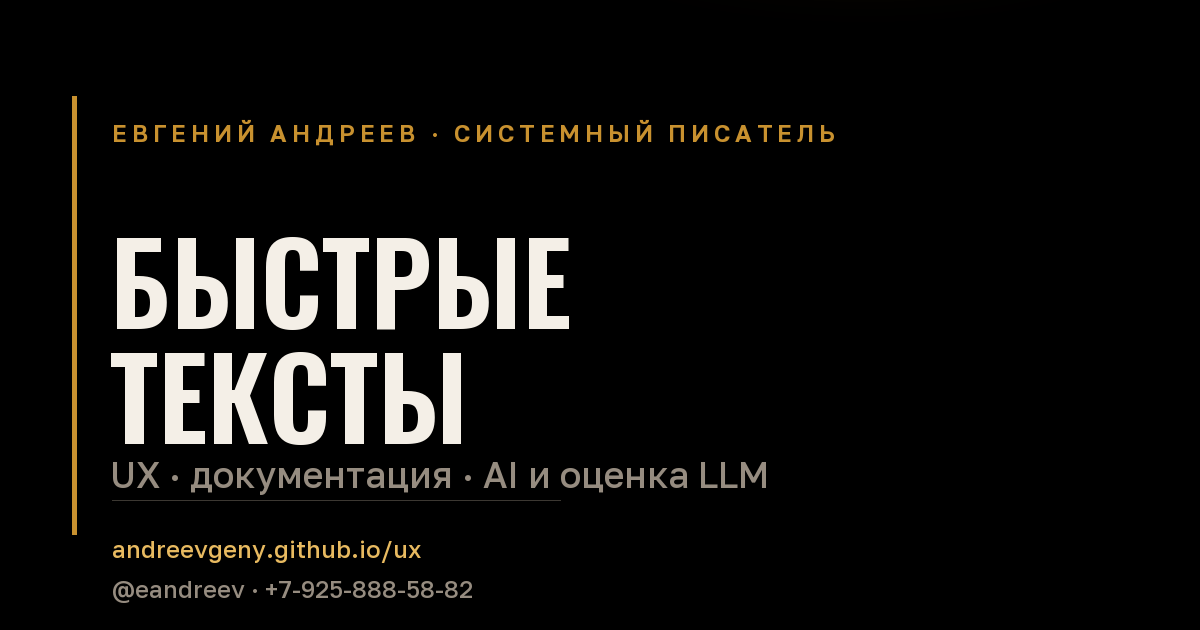
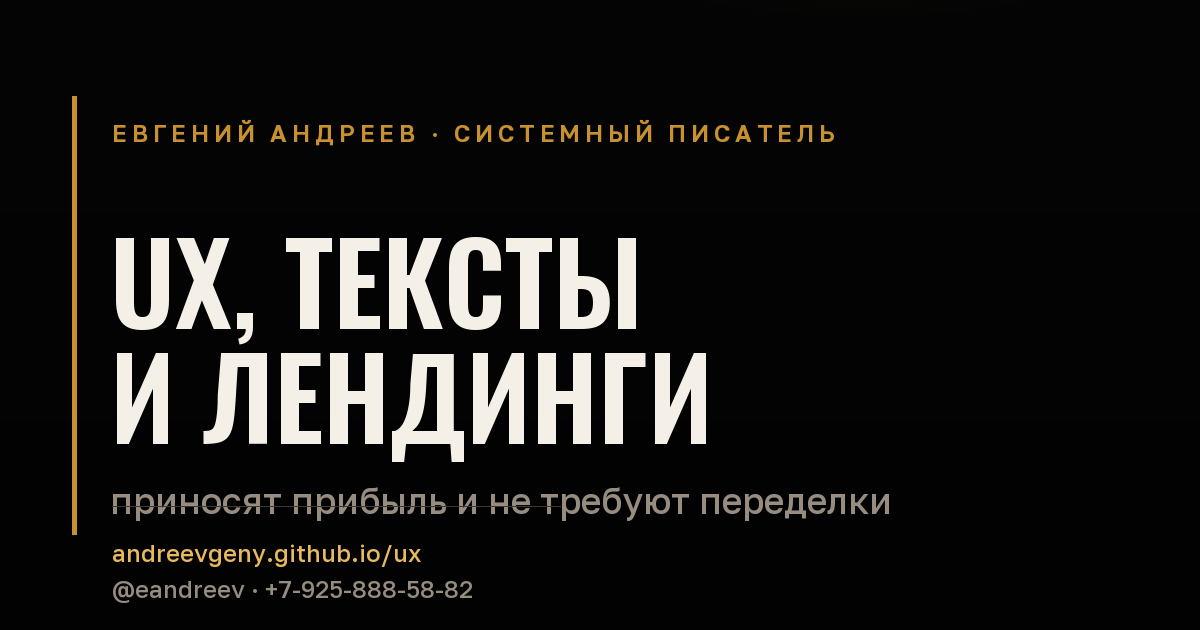
Позиционирование: h1 про UX/тексты/лендинги и прибыль; AI-ячейка названа тремя услугами; обложка обновлена

Changed region(s): [[0.0925, 0.3619, 0.74, 0.8143], [0.0925, 0.8444, 0.37, 0.9048]]

diff --git a/index.html b/index.html
@@ -45,8 +45,8 @@
   else{syncTheme();syncMetal();}
 })();
 </script>
-<title>Евгений Андреев — быстрые тексты: UX, документация, AI и оценка LLM</title>
-<meta name="description" content="Тексты, которые работают: UX-микрокопирайт, техническая документация и регламенты, промпты и оценка LLM. 28 лет практики на стыке инженерии и слова.">
+<title>Евгений Андреев — UX-тексты, лендинги и AI: тексты, которые приносят прибыль</title>
+<meta name="description" content="UX-тексты, лендинги, документация и регламенты, промпты и обвязка LLM. Тексты, которые приносят прибыль и не требуют переделки. 28 лет практики на стыке инженерии и слова.">
 <link rel="canonical" href="https://andreevgeny.github.io/ux/">
 <meta name="theme-color" content="#f4efe7" media="(prefers-color-scheme: light)">
 <meta name="theme-color" content="#050505" media="(prefers-color-scheme: dark)">
@@ -56,13 +56,13 @@
 <meta property="og:url" content="https://andreevgeny.github.io/ux/">
 <meta property="og:site_name" content="Евгений Андреев — быстрые тексты">
 <meta property="og:locale" content="ru_RU">
-<meta property="og:title" content="Быстрые тексты: UX, документация и AI — которые не нужно переделывать">
-<meta property="og:description" content="Кнопка, по которой кликают. Регламент, по которому не ошибаются. Промпт и eval-контур, которые экономят бюджет на LLM. 28 лет на стыке инженерии и слова.">
+<meta property="og:title" content="UX, тексты и лендинги, которые приносят прибыль и не требуют переделки">
+<meta property="og:description" content="По кнопке кликают, по регламенту работают без ошибок, промпты и обвязка LLM экономят бюджет. 28 лет на стыке инженерии и слова.">
 <meta property="og:image" content="https://andreevgeny.github.io/ux/og-image.png">
 <meta property="og:image:width" content="1200"><meta property="og:image:height" content="630"><meta property="og:image:alt" content="Евгений Андреев — быстрые тексты: UX, документация, AI и оценка LLM">
 <meta name="twitter:card" content="summary_large_image">
-<meta name="twitter:title" content="Быстрые тексты: UX, документация и AI">
-<meta name="twitter:description" content="Тексты, которые работают на результат: UX-микрокопирайт, регламенты, промпты и eval-контур для LLM. 28 лет практики.">
+<meta name="twitter:title" content="UX, тексты и лендинги, которые приносят прибыль">
+<meta name="twitter:description" content="Тексты, которые работают на результат: UX-микрокопирайт, лендинги, регламенты, промпты и обвязка LLM. 28 лет практики.">
 <meta name="twitter:image" content="https://andreevgeny.github.io/ux/og-image.png">
 <link rel="preconnect" href="https://fonts.googleapis.com">
 <link rel="preconnect" href="https://fonts.gstatic.com" crossorigin>
@@ -330,7 +330,7 @@ footer .fin{width:var(--shell);margin-inline:auto;display:flex;justify-content:s
   <div class="hero-bg" aria-hidden="true"><div class="ember a"></div><div class="ember b"></div></div>
   <div class="shell hero-inner">
     <div class="kicker rise">Тексты, которые работают · UX · документация · AI</div>
-    <h1 class="display rise" data-d="1" style="margin-top:16px">Быстрые тексты: <span class="l2">UX, документация и AI</span>, которые не нужно переделывать</h1>
+    <h1 class="display rise" data-d="1" style="margin-top:16px">UX, тексты и лендинги, которые <span class="l2">приносят прибыль</span> и не требуют переделки</h1>
     <p class="tagline rise" data-d="2">Пишу тексты, от которых есть результат: по кнопке кликают, по регламенту работают без ошибок, история втягивает и продаёт идею. За 28 лет — от промышленной автоматики до LLM-бота в продакшене — научился видеть, где слова приносят деньги, а где висят декорацией. Перевожу смысл с инженерного на человеческий и обратно.</p>
 
     <ul class="proof proof--row rise" data-d="3">
@@ -372,9 +372,9 @@ footer .fin{width:var(--shell);margin-inline:auto;display:flex;justify-content:s
         <p>Правлю так, чтобы текст звучал живым. Русский довожу до человеческого, английский — под носителя. Держу tone of voice бренда и проверяю факты вместе с запятыми: ошибка в термине обходится дороже опечатки.</p>
       </div>
       <div class="cell w4 rise" data-d="1">
-        <span class="num">04 / AI-тексты, промпты и архитектура</span>
-        <h4>Промпт-архитектура, оркестрация и агенты</h4>
-        <p>Промпт — это интерфейс, который читают и модель, и человек. Проектирую контур целиком: промпт-архитектуру, оркестрацию обвязки (loop, память, цели) и стратегии — prompt / goals / loop. Собираю типового агента как систему: файл-конституция, дашборд состояния, память, метрики. Всё это обкатано на живых задачах.</p>
+        <span class="num">04 / AI: промпты, обвязка, оркестрация</span>
+        <h4>Промпты, обвязка и оркестрация</h4>
+        <p><b>Промпты</b> — интерфейс, который читают и модель, и человек: формулирую задачу так, чтобы ответ был воспроизводимым. <b>Обвязка</b> — память, инструменты, файл-конституция и дашборд состояния вокруг модели. <b>Оркестрация</b> — кто кого вызывает, в каком порядке и с какими метриками на выходе. Всё это обкатано на живых задачах.</p>
       </div>
       <div class="cell w4 rise" data-d="2">
         <span class="num">05 / Оценка LLM · AI-тесты</span>
